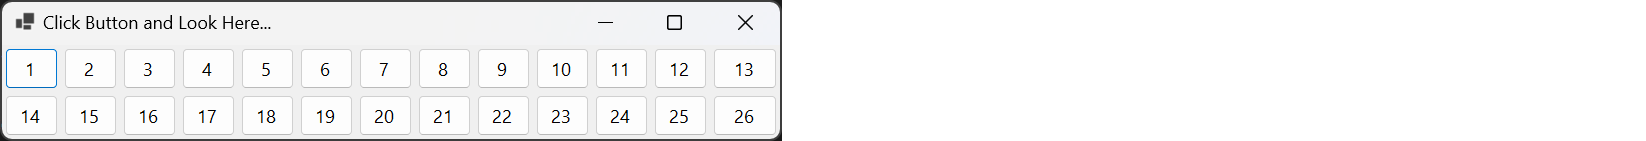
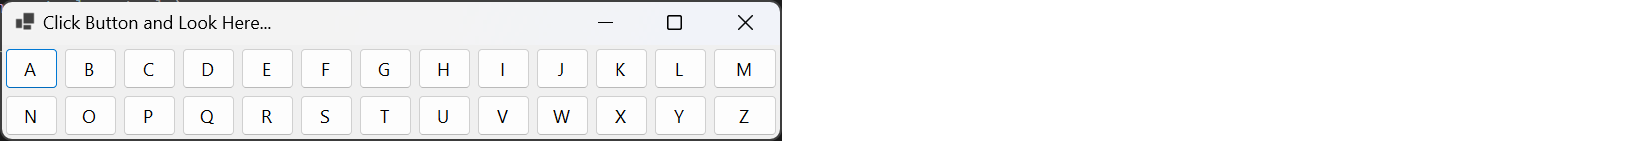
Updated example with char instead of int. Remove inintended reference to DevExpress.

diff --git a/hangman-00/MainForm.cs b/hangman-00/MainForm.cs
@@ -38,7 +38,12 @@ namespace hangman_00
 			if (control is CheckBox checkbox)
 			{
 				// One way to autogenerate the Text from the Name property.
-				checkbox.Text = checkbox.Name.Replace("checkBox", string.Empty);
+				string sval = checkbox.Name.Replace("checkBox", string.Empty);
+				if(int.TryParse(sval, out int offset))
+                {
+					char c = (char)('A' + (offset - 1));
+					checkbox.Text = c.ToString();
+                }
 				checkbox.Click += onAnyClick;
 			}
 			return true;
@@ -48,7 +53,7 @@ namespace hangman_00
 		{
 			if (sender is CheckBox checkbox)
 			{
-				Text = $"{checkbox.Name} = {checkbox.Checked}";
+				Text = $"{checkbox.Text} = {checkbox.Checked}";
 			}
 		}
     }

diff --git a/readme.md b/readme.md
@@ -33,7 +33,12 @@ The specific `fX` that we'll pass is going to set the text by looking at the con
 		if (control is CheckBox checkbox)
 		{
 			// One way to autogenerate the Text from the Name property.
-			checkbox.Text = checkbox.Name.Replace("checkBox", string.Empty);
+			string sval = checkbox.Name.Replace("checkBox", string.Empty);
+			if(int.TryParse(sval, out int offset))
+            {
+				char c = (char)('A' + (offset - 1));
+				checkbox.Text = c.ToString();
+            }
 			checkbox.Click += onAnyClick;
 		}
 		return true;
@@ -49,7 +54,7 @@ What you can do is take this generic functionality of the `Click` handler and ex
 	{
 		if (sender is CheckBox checkbox)
 		{
-			Text = $"{checkbox.Name} = {checkbox.Checked}";
+			Text = $"{checkbox.Text} = {checkbox.Checked}";
 		}
 	}
 
